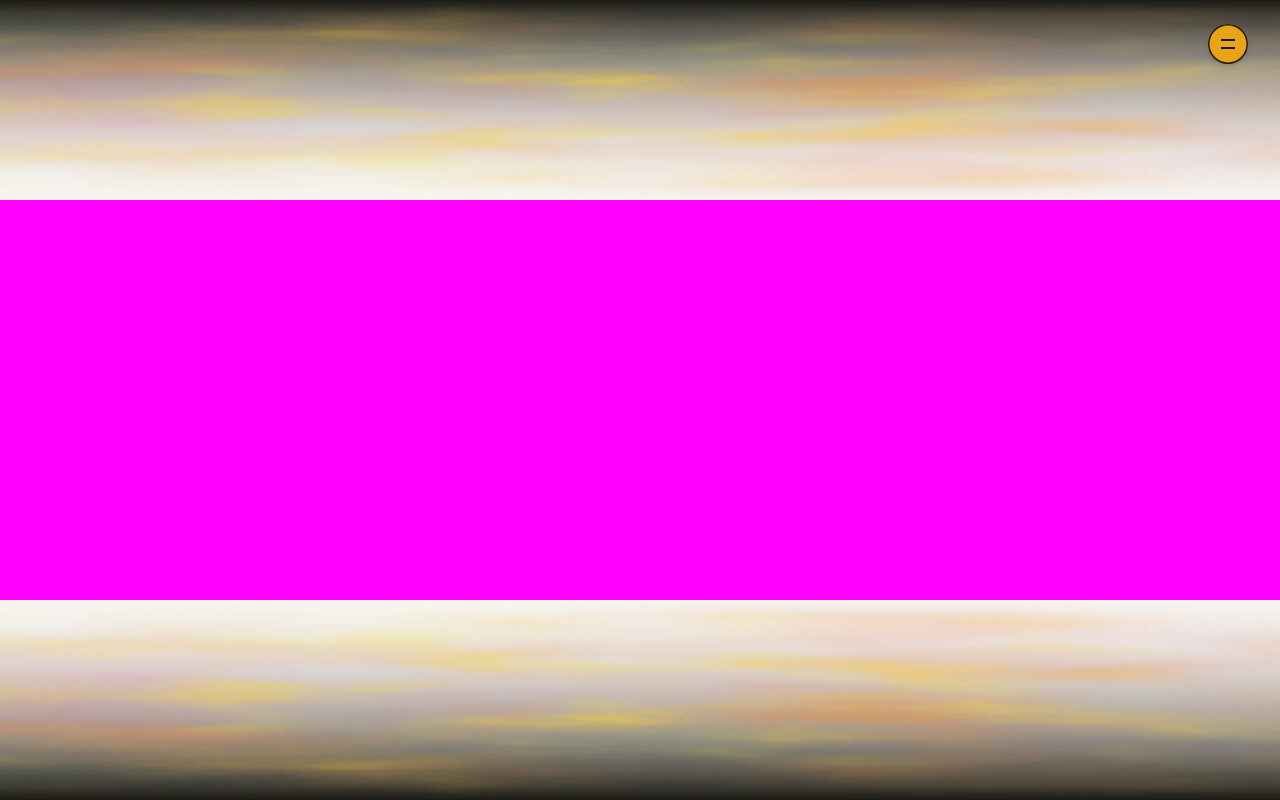
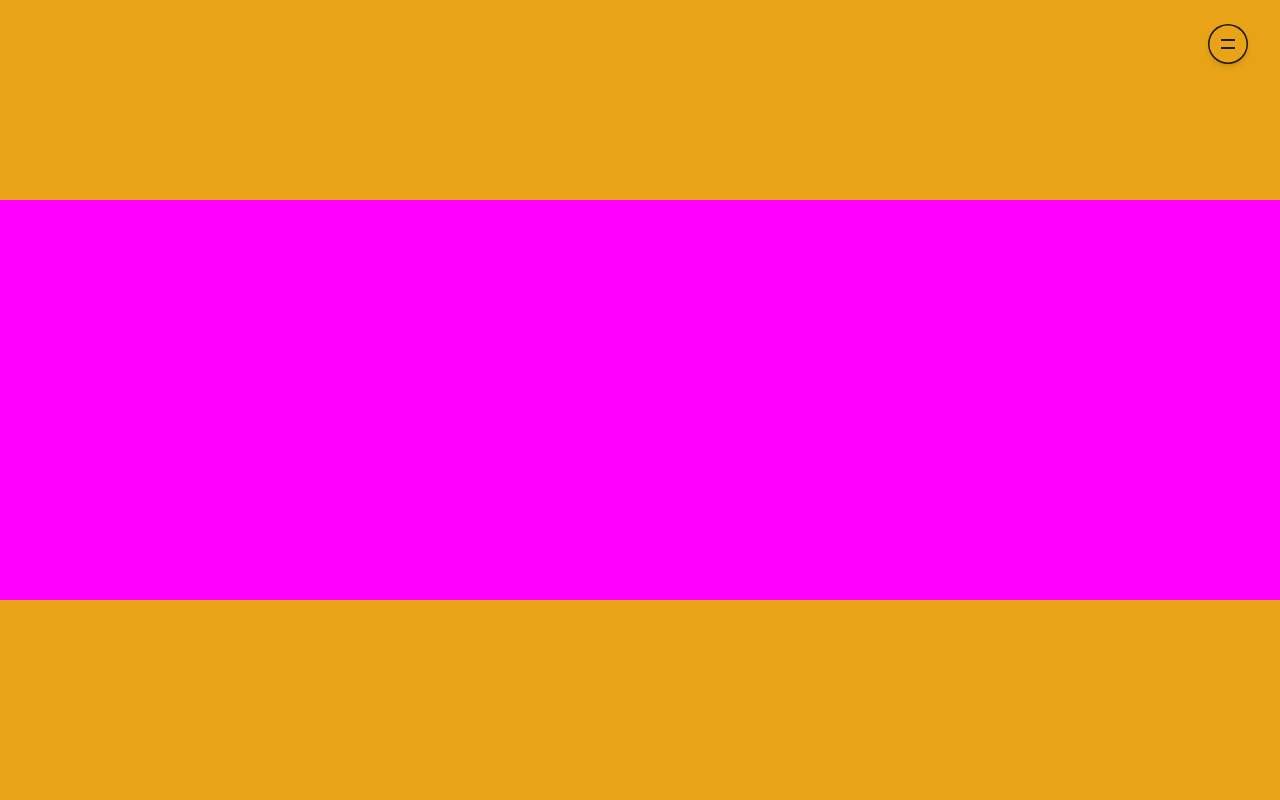
Merge pull request #35 from threesam/perf/homepage-gallery
perf(home): faster gallery + flat --coin homepage

Pull request: perf(home): faster gallery + flat --coin homepage
Homepage perf + a look change, on one branch.

## Gallery perf
- Defer per-card canvas mount to `requestIdleCallback` (motion immediate, setup off the LCP/hydration path) — TTI ~−0.9s under LH-mobile.
- `data-sveltekit-preload-data="off"` on cards — the click path is a hard nav, so the hover-preload was pure waste (and autoscroll dragging the `/self` card under the cursor was pulling a 294KB `marked` chunk onto the homepage).
- Lazy-load sketches per slug (`import.meta.glob`) instead of the whole 31-sketch registry — homepage decoded JS ~175KB → ~156KB.
- Card border → Tailwind (2px), idle-armed canvases.

## Flat --coin homepage
- Retire the homepage cloud sky for a flat `--coin` background — no `clouds.webp` fetch, no CloudCanvas on `/`. LCP ~−150ms (same-load A/B), CPU unchanged.
- The shared `CloudCanvas` + cloud assets are **untouched** and still render elsewhere via the layout `Anchor`. Visual suite confirmed the change is homepage-only (all 18 non-home tests pass); `home` baseline re-shot for the new design.

`/rl`-clean (security 0; 2 zero rounds). svelte-check 0/0.

diff --git a/src/lib/components/gallery/Gallery.svelte b/src/lib/components/gallery/Gallery.svelte
@@ -34,9 +34,15 @@
 
 	let stripEl: HTMLDivElement | undefined = $state();
 	let activeRange = $state<[number, number]>([0, 0]);
+	// Canvas mounting is held off the critical path: the strip translates
+	// immediately (cheap), but the per-card canvases — shader compiles,
+	// particle inits, the heavy lazy chunks — only mount once the page has
+	// painted and the main thread goes idle. They fade in regardless, so the
+	// deferral is invisible while keeping hydration/LCP free of canvas work.
+	let canvasesArmed = $state(false);
 
 	function isActive(i: number): boolean {
-		return i >= activeRange[0] && i <= activeRange[1];
+		return canvasesArmed && i >= activeRange[0] && i <= activeRange[1];
 	}
 
 	// Canvas modules loaded on demand, cached by handle.
@@ -157,6 +163,17 @@
 
 		rafRef = requestAnimationFrame(tick);
 
+		// Arm canvases at first idle so their setup never competes with
+		// hydration or the LCP paint. timeout guarantees they still appear on
+		// busy main threads; rAF fallback covers browsers without rIC.
+		const useIdle = typeof requestIdleCallback === 'function';
+		function arm() {
+			canvasesArmed = true;
+		}
+		const armHandle = useIdle
+			? requestIdleCallback(arm, { timeout: 2000 })
+			: requestAnimationFrame(() => requestAnimationFrame(arm));
+
 		const ro = new ResizeObserver(() => {
 			measure();
 			wake();
@@ -216,6 +233,8 @@
 
 		return () => {
 			cancelAnimationFrame(rafRef);
+			if (useIdle) cancelIdleCallback(armHandle);
+			else cancelAnimationFrame(armHandle);
 			ro.disconnect();
 			section.removeEventListener('mouseenter', onEnter);
 			section.removeEventListener('mouseleave', onLeave);
@@ -257,9 +276,10 @@
 			<a
 				href={item.href}
 				draggable="false"
+				data-sveltekit-preload-data="off"
 				onclick={(e) => handleClick(e, item)}
-				class="gallery-card group relative h-full shrink-0 overflow-hidden rounded-2xl transition-all duration-700"
-				style="aspect-ratio: 4 / 5; background-color: {BG_MAP[item.handle as ItemHandle] ?? 'var(--black)'}; display: block;"
+				class="gallery-card group relative block h-full shrink-0 overflow-hidden rounded-2xl border-2 border-[var(--black)] transition-[border-color,transform] duration-700 hover:border-[var(--coin)] hover:[transform:rotate(-1.3deg)]"
+				style="aspect-ratio: 4 / 5; background-color: {BG_MAP[item.handle as ItemHandle] ?? 'var(--black)'};"
 			>
 				{#if visible}
 					<div class="absolute inset-0">
@@ -288,8 +308,7 @@
 				{/if}
 				<span
 					data-card-label
-					class="absolute bottom-6 left-6 z-10 rounded-2xl p-3 font-mono text-xl font-bold uppercase tracking-[0.3em] transition-colors duration-300 lg:text-2xl"
-					style="background-color: var(--black); color: var(--white);"
+					class="absolute bottom-6 left-6 z-10 rounded-2xl bg-[var(--black)] p-3 font-mono text-xl font-bold uppercase tracking-[0.3em] text-[var(--white)] transition-colors duration-300 group-hover:text-[var(--coin)] lg:text-2xl"
 				>
 					{#if item.handle === 'deana'}
 						<DanaLabel />
@@ -301,17 +320,3 @@
 		{/each}
 	</div>
 </section>
-
-<style>
-  .gallery-card {
-    border: 3px solid var(--black);
-    transition: border-color 700ms, transform 700ms;
-  }
-  .gallery-card:hover {
-    border-color: var(--coin);
-    transform: rotate(-1.3deg);
-  }
-  .gallery-card:hover [data-card-label] {
-    color: var(--coin) !important;
-  }
-</style>

diff --git a/src/lib/components/art/actions/sketch-host.ts b/src/lib/components/art/actions/sketch-host.ts
@@ -1,5 +1,6 @@
 import type { Action } from 'svelte/action';
-import { getSketch } from '$lib/art/registry';
+import type { Sketch } from '$lib/art/types';
+import { loadSketch } from '$lib/art/load-sketch';
 import { mulberry32 } from '$lib/art/rng';
 import { makeNoise } from '$lib/art/noise';
 import { shouldSkipThrottledFrame } from '$lib/perf-flags';
@@ -33,9 +34,9 @@ export const sketchHost: Action<HTMLCanvasElement, SketchHostParams> = (
 ) => {
 	let params = { ...initialParams };
 
-	const maybeSketch = getSketch(params.slug);
-	if (!maybeSketch) return {};
-	const sketch = maybeSketch;
+	// Resolved asynchronously once the sketch's chunk loads (see `load` below).
+	let sketch: Sketch | null = null;
+	let destroyed = false;
 
 	const actualSeed = params.seed ?? Math.floor(Math.random() * 1_000_000);
 	const rng = mulberry32(actualSeed);
@@ -59,6 +60,7 @@ export const sketchHost: Action<HTMLCanvasElement, SketchHostParams> = (
 	}
 
 	function setupSketch() {
+		if (!sketch) return;
 		const dpr = sketch.lowDpr ? 1 : (window.devicePixelRatio || 1);
 		const w = container.offsetWidth;
 		const h = container.offsetHeight;
@@ -147,8 +149,21 @@ export const sketchHost: Action<HTMLCanvasElement, SketchHostParams> = (
 		}
 	}
 
+	// Fetch the sketch's chunk on demand, then sync. The token guards against a
+	// slug change landing while a previous load is still in flight (stale result
+	// is dropped), and `destroyed` guards against resolving after teardown.
+	let loadToken = 0;
+	function load(slug: string) {
+		const token = ++loadToken;
+		loadSketch(slug).then((s) => {
+			if (destroyed || token !== loadToken) return;
+			sketch = s;
+			stateSync();
+		});
+	}
+
 	applyInteractive();
-	stateSync();
+	load(params.slug);
 
 	const ro = new ResizeObserver(() => {
 		clearTimeout(resizeTimeout);
@@ -172,13 +187,15 @@ export const sketchHost: Action<HTMLCanvasElement, SketchHostParams> = (
 				applyInteractive();
 				return;
 			}
-			// slug/seed changed — full re-init.
+			// slug/seed changed — full re-init against a freshly loaded chunk.
 			params = { ...newParams };
 			if (hasSetup) teardownSketch();
+			sketch = null;
 			applyInteractive();
-			stateSync();
+			load(newParams.slug);
 		},
 		destroy() {
+			destroyed = true;
 			clearTimeout(resizeTimeout);
 			ro.disconnect();
 			if (hasSetup) teardownSketch();

diff --git a/src/routes/+page.svelte b/src/routes/+page.svelte
@@ -1,27 +1,20 @@
 <script lang="ts">
   import SeoHead from '$lib/components/SeoHead.svelte';
-  import CloudCanvas from '$lib/components/canvas/CloudCanvas.svelte';
   import Gallery from '$lib/components/gallery/Gallery.svelte';
 </script>
 
-<SeoHead canonical="/" preloadImage="/assets/clouds.webp" />
+<SeoHead canonical="/" />
 
 <!--
-  Homepage lays out into a single viewport: 25dvh clouds on top (CSS-mirrored
-  so the darker end meets the page edge), 50dvh gallery strip, 25dvh clouds
-  below (unmirrored — darker end at page bottom). Both render the same baked
-  sky WebP; the prod build skips the WebGL shader entirely. No page scroll.
-  The shared bottom Anchor from the layout is suppressed on `/` via the
-  EXACT_HIDE set in Anchor.svelte so the 25dvh footer cloud fits in-layout.
+  Single-viewport homepage on a flat --coin field: a 50dvh gallery strip
+  centered between 25dvh top/bottom spacers. No page scroll. The animated cloud
+  sky was retired for the homepage (no image fetched); the shared CloudCanvas
+  still runs elsewhere via the layout Anchor, which stays suppressed on `/`.
 -->
-<main class="flex h-dvh w-full flex-col overflow-hidden">
-  <section class="relative h-[25dvh] w-full overflow-hidden">
-    <CloudCanvas mirror />
-  </section>
+<main class="flex h-dvh w-full flex-col overflow-hidden" style="background-color: var(--coin);">
+  <div class="h-[25dvh] w-full"></div>
   <div class="relative h-[50dvh] w-full">
     <Gallery />
   </div>
-  <section class="relative h-[25dvh] w-full overflow-hidden">
-    <CloudCanvas />
-  </section>
+  <div class="h-[25dvh] w-full"></div>
 </main>

diff --git a/src/lib/art/load-sketch.ts b/src/lib/art/load-sketch.ts
@@ -1,0 +1,17 @@
+import type { Sketch } from './types';
+
+// Lazily import a single sketch by slug. `import.meta.glob` (lazy form) makes
+// Vite code-split every sketch into its own chunk and emit only dynamic
+// imports here — so this module pulls in *no* sketch code itself. Consumers
+// that render one or two sketches (the homepage gallery, /thoughts, /sounds)
+// no longer bundle the whole 31-sketch registry; they fetch just the chunk
+// they need. Slugs map 1:1 to their file (slug "30" -> sketches/day30.ts,
+// which exports `day30`).
+const loaders = import.meta.glob<Record<string, Sketch>>('./sketches/day*.ts');
+
+export async function loadSketch(slug: string): Promise<Sketch | null> {
+  const loader = loaders[`./sketches/day${slug}.ts`];
+  if (!loader) return null;
+  const mod = await loader();
+  return mod[`day${slug}`] ?? null;
+}